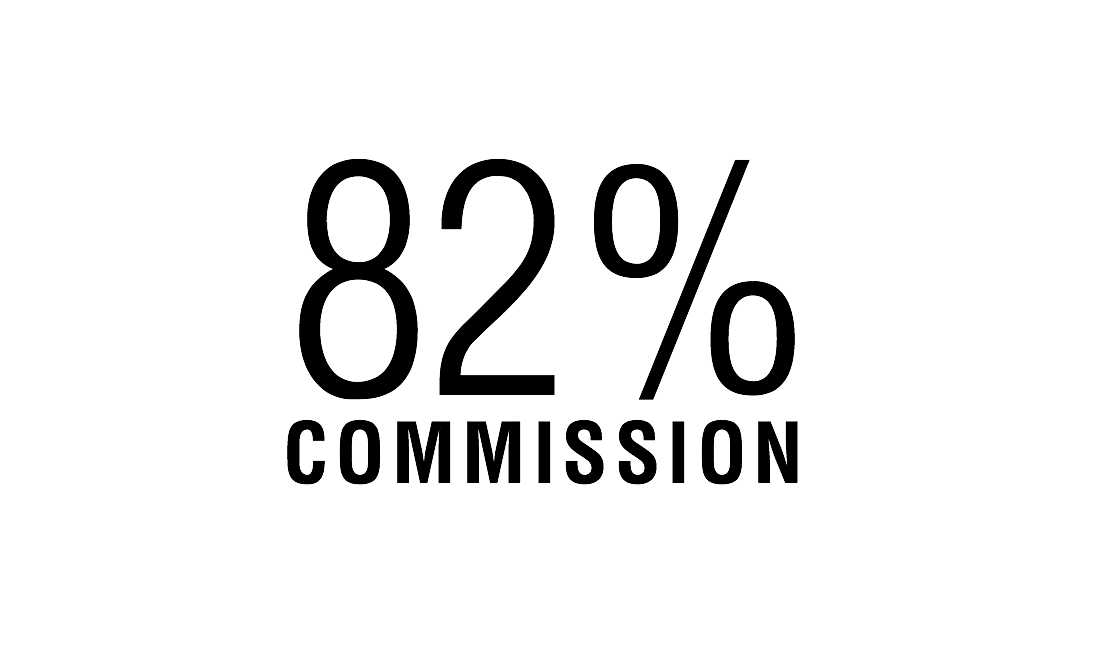
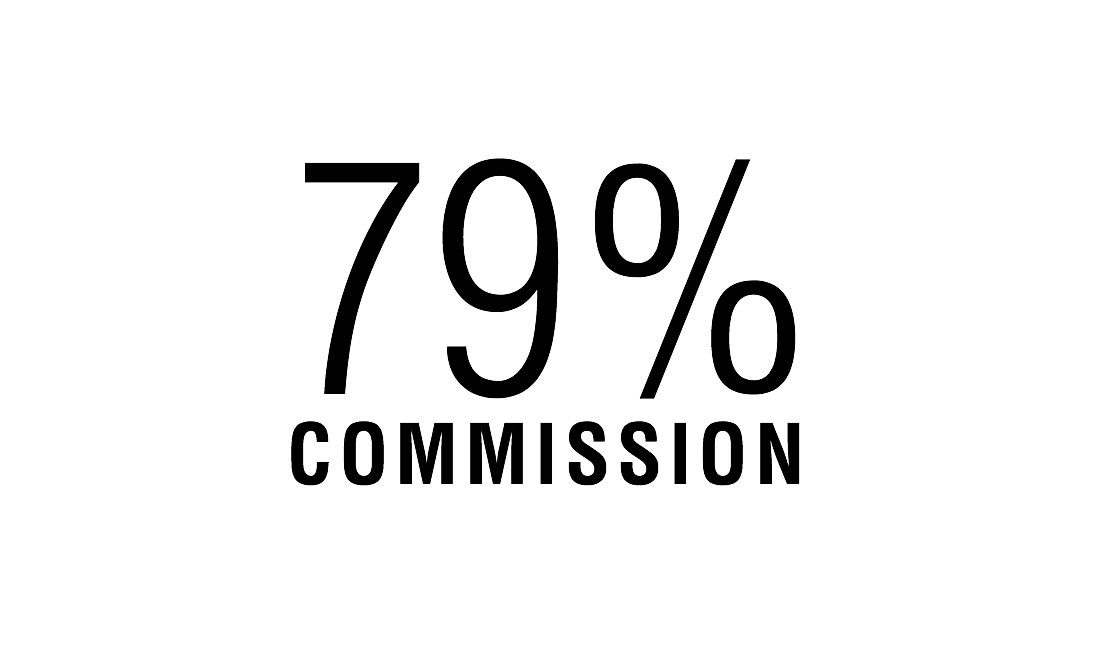
Changed commission for supply and added commission to curate. For sign in linked to trunkit.com instead of beta.trunkit.com

diff --git a/css/styles.css b/css/styles.css
@@ -307,6 +307,11 @@ body {
   z-index: 10;
 }
 
+.step-8 img {
+  left: 0;
+  z-index: 10;
+}
+
 button {
   display: block;
 }
@@ -1136,6 +1141,14 @@ select {
   height: 150px;
 }
 
+.instruction-8 {
+  top: 110px;
+  left: 54.5908183632%;
+  z-index: 9;
+  width: 45.4091816367%;
+  height: 150px;
+}
+
 .learnmorearrow-1 {
   z-index: 32;
 }
@@ -1219,7 +1232,7 @@ select {
 .scrollblock-12 {
   float: left;
   clear: both;
-  height: 965px;
+  height: 990px;
 }
 
 .scrollblock-4 {
@@ -1247,7 +1260,7 @@ select {
 .scrollblock-8 {
   float: left;
   clear: both;
-  height: 1512px;
+  height: 1750px;
 }
 
 .scrollblock-9 {
@@ -1280,6 +1293,12 @@ select {
   top: 1058px;
   right: 0;
   z-index: 11;
+}
+
+.step-8 {
+  top: 1400px;
+  left: 0;
+  z-index: 18;
 }
 
 .text-1 {
@@ -1344,6 +1363,12 @@ select {
 
 .text-8 {
   top: 0;
+  left: 95px;
+  z-index: 8;
+}
+
+.text-10 {
+  top: -5px;
   left: 95px;
   z-index: 8;
 }
@@ -1509,6 +1534,10 @@ select {
     top: 100px;
   }
 
+  .step-8 img {
+    top: 40px;
+  }
+
   .instruction .number {
     width: 80px;
   }
@@ -1608,6 +1637,11 @@ select {
     height: 475px;
   }
 
+  .scrollblock .step-8 {
+    top: 1550px;
+    height: 475px;
+  }
+
   .scrollblock .text-1 {
     top: 0;
     bottom: 0;
@@ -1642,7 +1676,7 @@ select {
   }
 
   .scrollblock-8 {
-    height: 1500px;
+    height: 1950px;
   }
 
   .step .instruction-1,
@@ -1653,7 +1687,8 @@ select {
   .step .instruction-3,
   .step .instruction-4,
   .step .instruction-5,
-  .step .instruction-6 {
+  .step .instruction-6,
+  .step .instruction-8 {
     top: 1px;
     width: 455px;
   }
@@ -1852,7 +1887,8 @@ select {
   .step-1 img,
   .step-2 img,
   .step-4 img,
-  .step-6 img {
+  .step-6 img
+  .step-8 img {
     left: 0;
     right: 0;
     width: 440px;
@@ -1902,6 +1938,12 @@ select {
     font-size: 1.25em;
   }
 
+  .instruction .text-10 {
+    top: 0px;
+    width: 325px;
+    font-size: 1.25em;
+  }
+
   .number .box-1,
   .number .box-2 {
     z-index: 19;
@@ -1939,7 +1981,8 @@ select {
 
   .scrollblock .step-2,
   .scrollblock .step-4,
-  .scrollblock .step-6 {
+  .scrollblock .step-6,
+  .scrollblock .step-8 {
     width: 440px;
   }
 
@@ -1977,7 +2020,8 @@ select {
 
   .step .instruction-2,
   .step .instruction-4,
-  .step .instruction-6 {
+  .step .instruction-6,
+  .step .instruction-8 {
     width: 420px;
   }
 
@@ -2375,13 +2419,15 @@ select {
   .step-4 img,
   .step-5 img,
   .step-6 img,
+  .step-8 img,
   .scrollblock-10 img,
   .step .instruction-1,
   .step .instruction-2,
   .step .instruction-3,
   .step .instruction-4,
   .step .instruction-5,
-  .step .instruction-6 {
+  .step .instruction-6,
+  .step .instruction-8 {
     width: 300px;
   }
 
@@ -2393,7 +2439,8 @@ select {
   .scrollblock .step-1,
   .scrollblock .step-2,
   .scrollblock .step-4, 
-  .scrollblock .step-6 {
+  .scrollblock .step-6,
+  .scrollblock .step-8 {
     width: 100%;
     height: 300px;
   }
@@ -2406,6 +2453,10 @@ select {
   .scrollblock .step-5,
   .scrollblock .step-6 {
     top: 860px;
+  }
+
+  .scrollblock .step-8 {
+    top: 1050px;
   }
 
   .scrollblock .scrollblock-7,
@@ -2423,7 +2474,7 @@ select {
   }
 
   .scrollblock-8 {
-    height: 1300px;
+    height: 1950px;
   }
 
   .step .instruction {

diff --git a/curate.html b/curate.html
@@ -22,7 +22,7 @@
   <div>
     <header class="_container _container-3">
       <a href="index.html"><img class="logo" src="images/LogoBlack.png"></a>
-      <a class="signin signin-5" href="https://beta.trunkit.com/users/sign_in" target="_target">Login</a>
+      <a class="signin signin-5" href="https://www.trunkit.com/users/sign_in" target="_target">Login</a>
       <button class="menu" id="showLeftPush">Menu</button>
       <div class="background background-7"></div>
     </header>
@@ -66,6 +66,16 @@
           <div class="number number-6 clearfix">
             <div class="box box-6"></div>
             <p class="numbertext numbertext-6">3</p>
+          </div>
+        </div>
+      </div>
+      <div class="step step-8">
+        <img class="computer" src="images/curatecommission.png">
+        <div class="instruction instruction-8">
+          <p class="text text-10">Receive 10% of the full retail price, every time your customer purchases an item that you've curated.</p>
+          <div class="number number-8 clearfix">
+            <div class="box box-8"></div>
+            <p class="numbertext numbertext-8">4</p>
           </div>
         </div>
       </div>

diff --git a/collaborate.html b/collaborate.html
@@ -22,7 +22,7 @@
   <div>
     <header class="_container _container-5">
       <a href="index.html"><img class="logo" src="images/LogoBlack.png"></a>
-      <a class="signin signin-5" href="https://beta.trunkit.com/users/sign_in" target="_target">Login</a>
+      <a class="signin signin-5" href="https://www.trunkit.com/users/sign_in" target="_target">Login</a>
       <button class="menu" id="showLeftPush">Menu</button>
       <div class="background background-10"></div>
     </header>
@@ -42,7 +42,7 @@
         <p class="definition definition-1">STATES</p>
         <div class="amount amount-1">18</div>
         <p class="definition definition-2">BOUTIQUES</p>
-        <p class="amount amount-2">31</p>
+        <p class="amount amount-2">32</p>
       </div>
       <p class="heading heading-11">
         Aquamarine - Lewes, DE<br>
@@ -66,6 +66,7 @@
         Ecco Boutique - Burlington, VT<br>
         Friend - New Orleans, LA<br>
         Island Farm - Boulder, CO<br>
+        Nod & Rose - Boulder, CO <br>
         Pink - Richmond, VA<br>
         Pink Lagoon - La Jolla, CA<br>
         Pink Lagoon - Solana Beach, CA<br>

diff --git a/supply.html b/supply.html
@@ -22,7 +22,7 @@
   <div>
     <header class="_container _container-1">
       <a href="index.html"><img class="logo" src="images/LogoBlack.png"></a>
-      <a class="signin signin-5" href="https://beta.trunkit.com/users/sign_in" target="_target">Login</a>
+      <a class="signin signin-5" href="https://www.trunkit.com/users/sign_in" target="_target">Login</a>
       <button class="menu" id="showLeftPush">Menu</button>
       <div class="background background-6"></div>
     </header>
@@ -62,7 +62,7 @@
       <div class="step step-5">
         <img class="computer" src="images/supplycommission.png">
         <div class="instruction instruction-5">
-          <p class="text text-7">Benefit from the help of other boutiques selling your inventory to their customers. Receive 82% of the full retail price.</p>
+          <p class="text text-7">Receive 79% of the full retail price and benefit from the help of other boutiques selling your inventory to their customers.</p>
           <div class="number number-5 clearfix">
             <div class="box box-5"></div>
             <div class="numbertext numbertext-5">3</div>

diff --git a/index.html b/index.html
@@ -31,13 +31,13 @@
   <div>
     <header class="_container _container-1">
       <a href="index.html"><img class="logo" src="images/LogoBlack.png"></a>
-      <a class="signin signin-5" href="https://beta.trunkit.com/users/sign_in" target="_target">Login</a>
+      <a class="signin signin-5" href="https://www.trunkit.com/users/sign_in" target="_target">Login</a>
       <button class="menu" id="showLeftPush">Menu</button>
       <div class="background background-2"></div>
     </header>
     <div class="scrollblock scrollblock-1">
       <button onClick="window.location='signup.html';" class="getinvited getinvited-1 js-get-invited" type="submit">Sign Up</button>
-      <button onClick="window.location='https://beta.trunkit.com/users/sign_in'" class="signinbutton signinbutton-1">Login</button>
+      <button onClick="window.location='https://www.trunkit.com/users/sign_in'" class="signinbutton signinbutton-1">Login</button>
       <div class="tagline">The end of your inventory management problems.</div>
       <div class="background background-1"></div>
     </div>

diff --git a/aboutus.html b/aboutus.html
@@ -22,7 +22,7 @@
   <div>
     <header class="_container _container-1">
       <a href="index.html"><img class="logo" src="images/LogoBlack.png"></a>
-      <a class="signin signin-5" href="https://beta.trunkit.com/users/sign_in" target="_target">Login</a>
+      <a class="signin signin-5" href="https://www.trunkit.com/users/sign_in" target="_target">Login</a>
       <button class="menu" id="showLeftPush">Menu</button>
       <div class="background background-b"></div>
     </header>

diff --git a/signup.html b/signup.html
@@ -24,7 +24,7 @@
   </nav>
   <header class="_container _container-1">
     <a href="index.html"><img class="logo" src="images/LogoBlack.png"></a>
-    <a class="signin signin-5" href="https://beta.trunkit.com/users/sign_in" target="_target">Login</a>
+    <a class="signin signin-5" href="https://www.trunkit.com/users/sign_in" target="_target">Login</a>
     <button class="menu" id="showLeftPush">Menu</button>
     <div class="background background-12"></div>
   </header>
